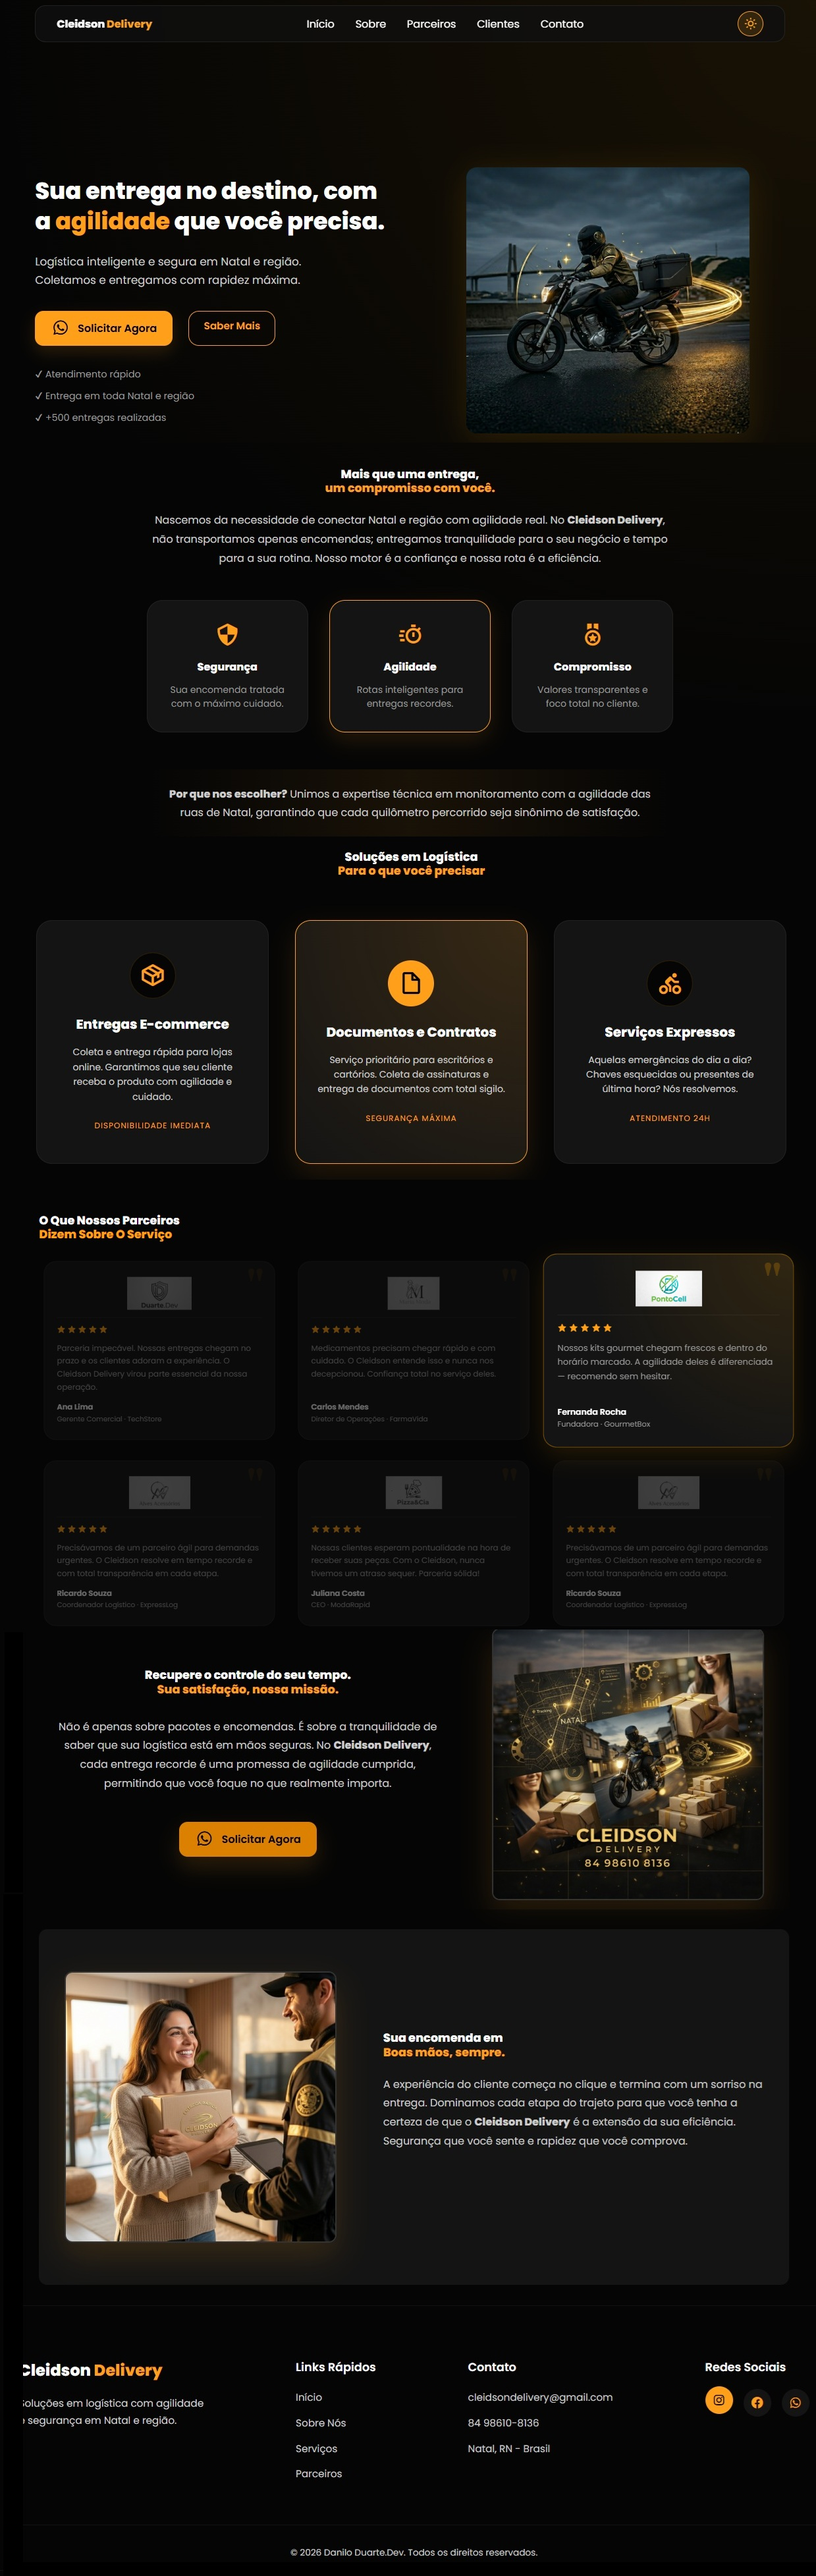
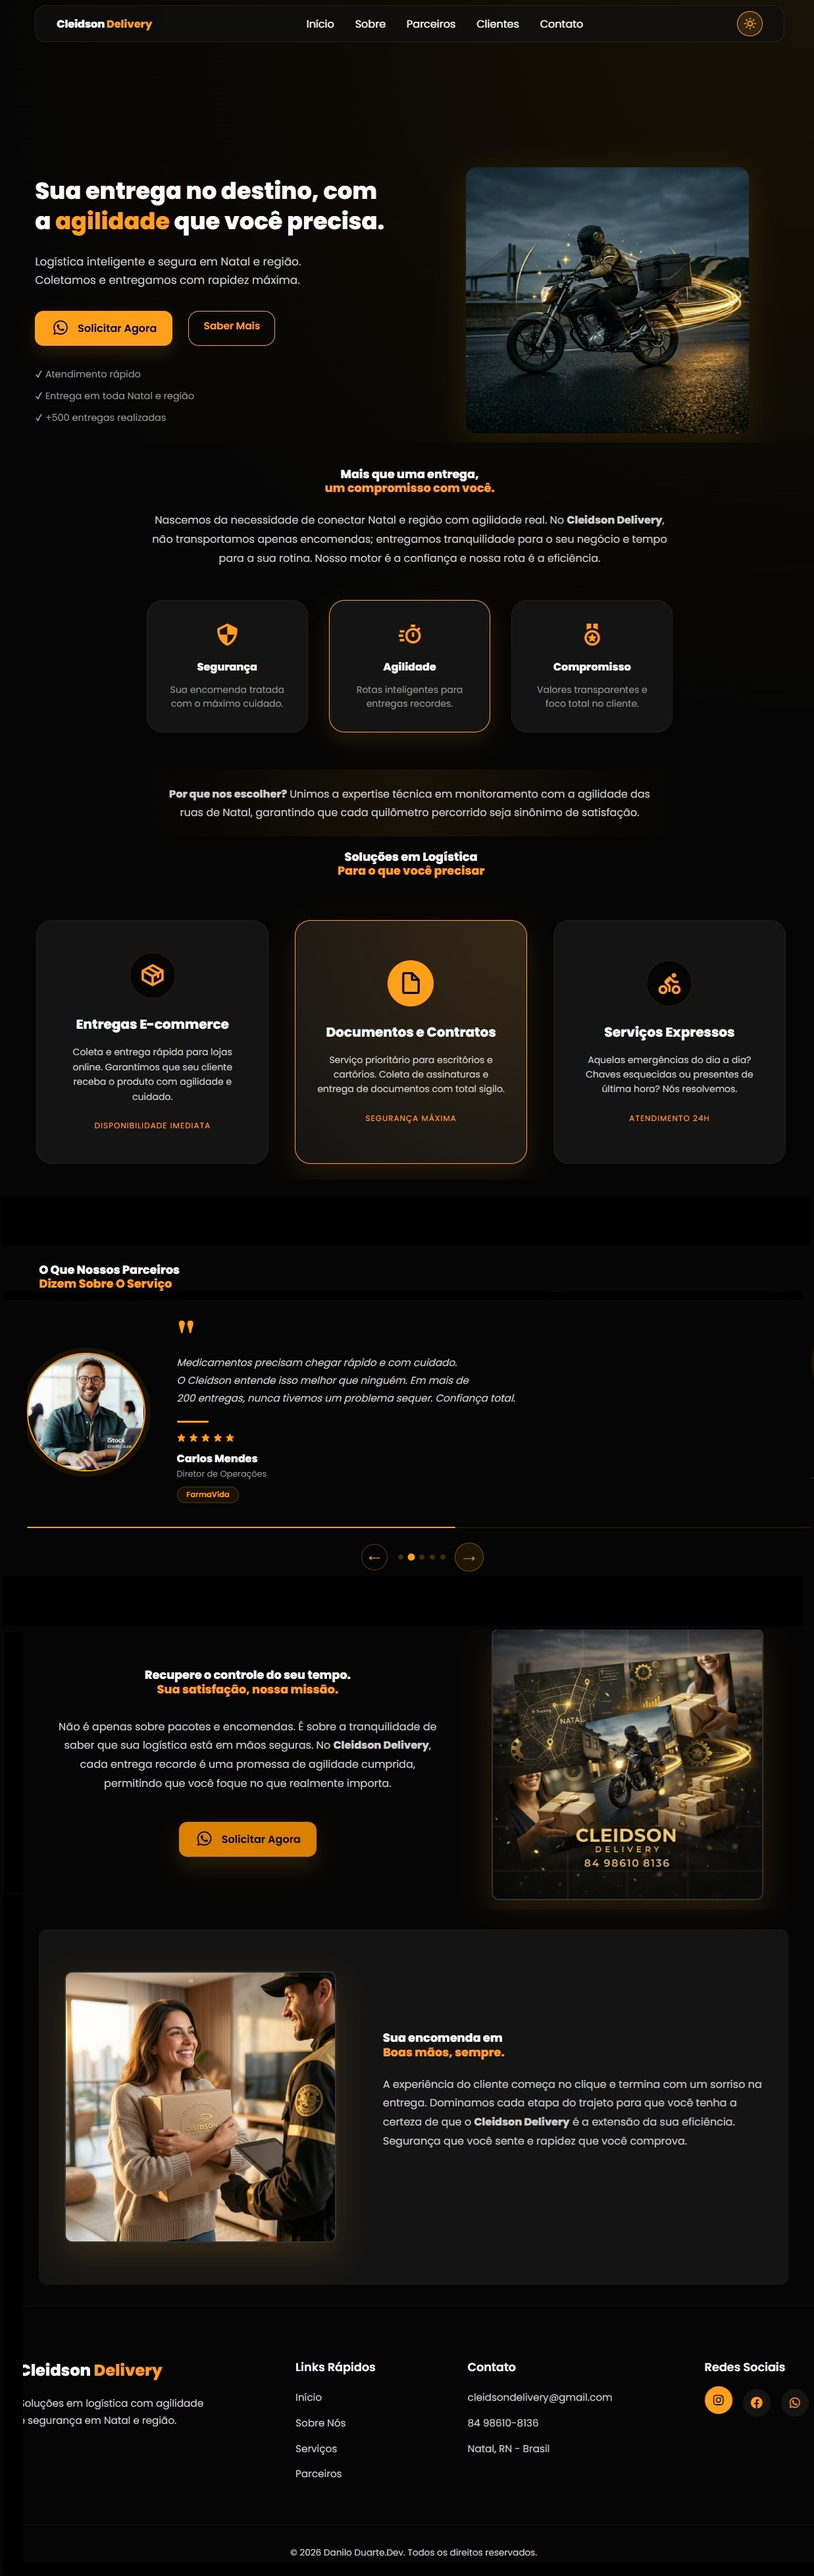
Projeto ajustado e concluído

diff --git a/index.html b/index.html
@@ -188,7 +188,7 @@
       Empresas que confiam <br />
       <span>na nossa agilidade</span>
     </h2>
-    <p class="partners__subtitle reveal reveal-up">O que nossos clientes dizem sobre o serviço</p>
+    <!-- <p class="partners__subtitle reveal reveal-up">O que nossos clientes dizem sobre o serviço</p> -->
 
     <div class="tc-wrapper reveal reveal-up">
       <div class="tc-track" id="tcTrack">
